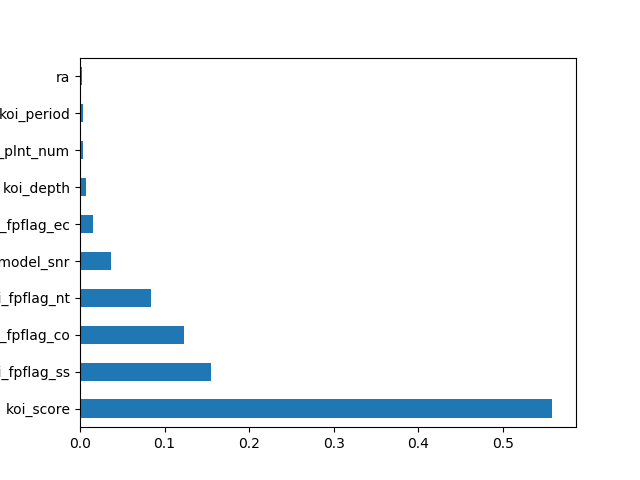
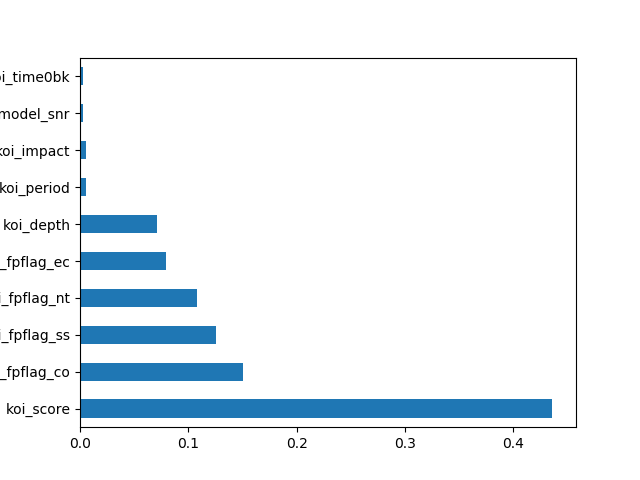
Added labels to cleaned data

diff --git a/clustering/dbscan/dbscan.py b/clustering/dbscan/dbscan.py
@@ -1,0 +1,61 @@
+import numpy as np
+import pandas as pd
+
+#sklearn imports
+from sklearn.cluster import DBSCAN
+from sklearn.decomposition import PCA #Principal Component Analysis
+from sklearn.manifold import TSNE #T-Distributed Stochastic Neighbor Embedding
+from sklearn.cluster import KMeans #K-Means Clustering
+from sklearn.preprocessing import StandardScaler #used for 'Feature Scaling'
+from sklearn import metrics
+
+#plotly imports
+import plotly as py
+import plotly.graph_objs as go
+from plotly.offline import download_plotlyjs, init_notebook_mode, plot, iplot
+
+def load_data():
+    w_score = pd.read_csv(r"../../data/exoplanet_cleanedrf_w_score.csv").to_numpy()
+    no_score = pd.read_csv(r"../../data/exoplanet_cleanedrf.csv").to_numpy()
+    return w_score, no_score
+
+def dbscan(data):
+    binary_vars = data[:, :4]
+    print(binary_vars)
+    # Scale non-binary variables
+    scaled_numeric = StandardScaler().fit_transform(data[: , 4:])
+    # Recombine
+    X = np.concatenate((binary_vars, scaled_numeric), axis = 1)
+    print(X)
+
+    # Compute DBSCAN
+    db = DBSCAN(eps=0.3, min_samples=10).fit(X)
+    core_samples_mask = np.zeros_like(db.labels_, dtype=bool)
+    core_samples_mask[db.core_sample_indices_] = True
+    labels = db.labels_
+
+    # Number of clusters in labels, ignoring noise if present.
+    n_clusters_ = len(set(labels)) - (1 if -1 in labels else 0)
+    n_noise_ = list(labels).count(-1)
+
+    print('Estimated number of clusters: %d' % n_clusters_)
+    print('Estimated number of noise points: %d' % n_noise_)
+    print("Homogeneity: %0.3f" % metrics.homogeneity_score(labels_true, labels))
+    print("Completeness: %0.3f" % metrics.completeness_score(labels_true, labels))
+    print("V-measure: %0.3f" % metrics.v_measure_score(labels_true, labels))
+    print("Adjusted Rand Index: %0.3f"
+        % metrics.adjusted_rand_score(labels_true, labels))
+    print("Adjusted Mutual Information: %0.3f"
+        % metrics.adjusted_mutual_info_score(labels_true, labels))
+    print("Silhouette Coefficient: %0.3f"
+        % metrics.silhouette_score(X, labels))
+
+
+def plot_dbscan():
+    pass
+
+if __name__ == "__main__":
+    w_score, no_score = load_data()
+    print(no_score[:,4:])
+    dbscan(no_score)
+

diff --git a/clustering/dbscan/feature_selection.py b/clustering/dbscan/feature_selection.py
@@ -87,8 +87,8 @@ if __name__ == "__main__":
     feat_importance(df)
     # Most important: koi_score, koi_fpflag_ss, koi_fpflag_nt, koi_fpflag_ec, koi_fpflag_co, koi_depth, koi_period, koi_teq, koi_model_snr 
     # Output CSV with most important features
-    with_score = df[["koi_score", "koi_fpflag_ss", "koi_fpflag_nt", "koi_fpflag_ec", "koi_fpflag_co", "koi_depth", "koi_period", "koi_teq", "koi_model_snr"]]
-    wo_score = df[["koi_fpflag_ss", "koi_fpflag_nt", "koi_fpflag_ec", "koi_fpflag_co", "koi_depth", "koi_period", "koi_teq", "koi_model_snr"]]
+    with_score = df[["koi_pdisposition", "koi_score", "koi_fpflag_ss", "koi_fpflag_nt", "koi_fpflag_ec", "koi_fpflag_co", "koi_depth", "koi_period", "koi_teq", "koi_model_snr"]]
+    wo_score = df[["koi_pdisposition", "koi_fpflag_ss", "koi_fpflag_nt", "koi_fpflag_ec", "koi_fpflag_co", "koi_depth", "koi_period", "koi_teq", "koi_model_snr"]]
 
     with_score.to_csv("../../data/exoplanet_cleanedrf_w_score.csv", index=False)
     wo_score.to_csv("../../data/exoplanet_cleanedrf.csv", index=False)
